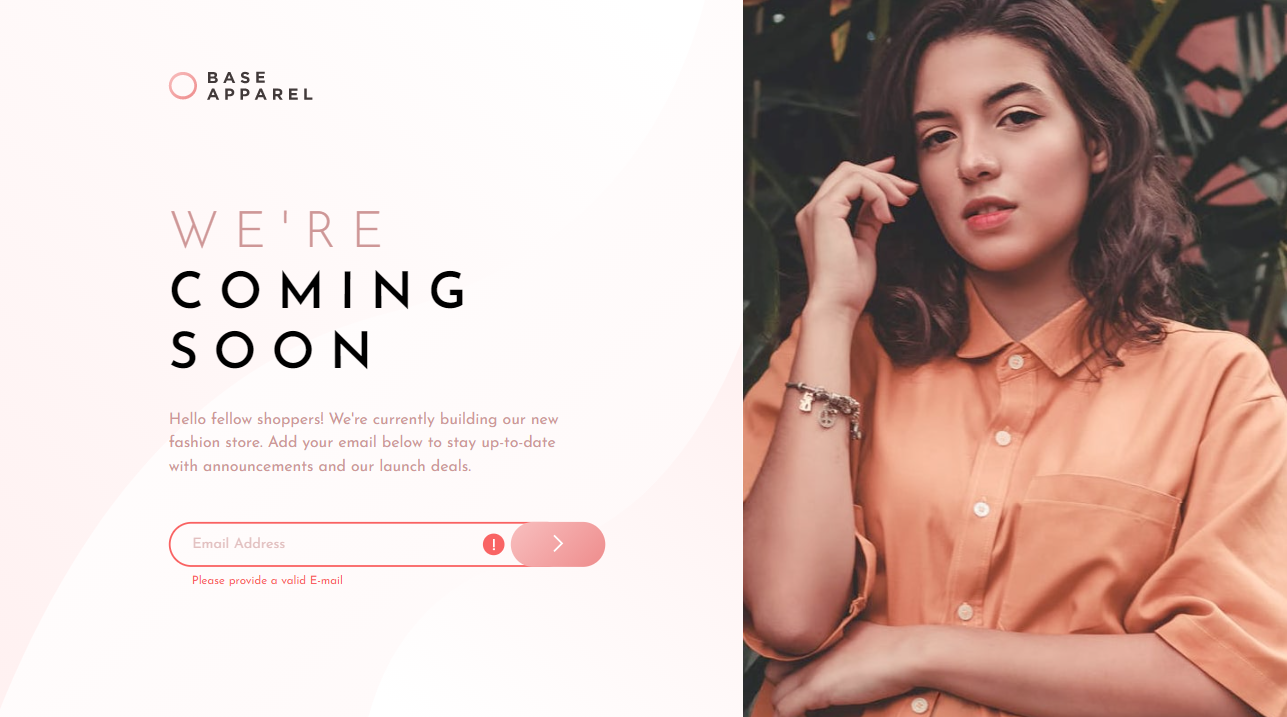
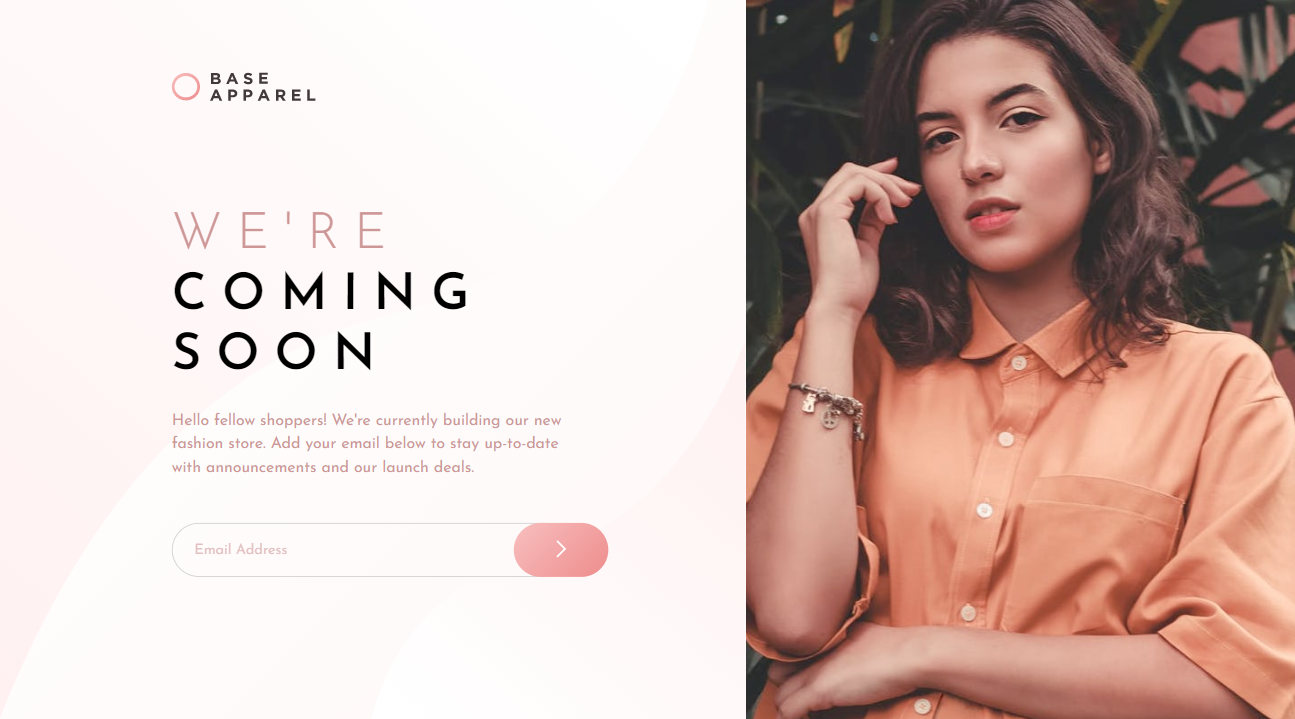
Styles and image changes

diff --git a/styles.css b/styles.css
@@ -104,7 +104,7 @@ body{
     border-radius: 2em;
     height: 50px;
     padding-left: 1.5em;
-    border: 1px solid var(--desaturatedRed);
+    border: 1px solid #d2d2d2;
     opacity: 1;
     font-size: .8em;
     font-family: 'Josefin Sans', sans-serif;
@@ -197,12 +197,15 @@ body{
         font-size: 1.1em;
     }
     .card-body-description-form input{
-        height: 50px;
+        border-radius: 30px;
+        height: 60px;
         font-size: 1em;
     }
 
     .card-body-description-form button{
+        border-radius: 30px;
         width: 105px;
+        height: 60px;
     }
 }
 
